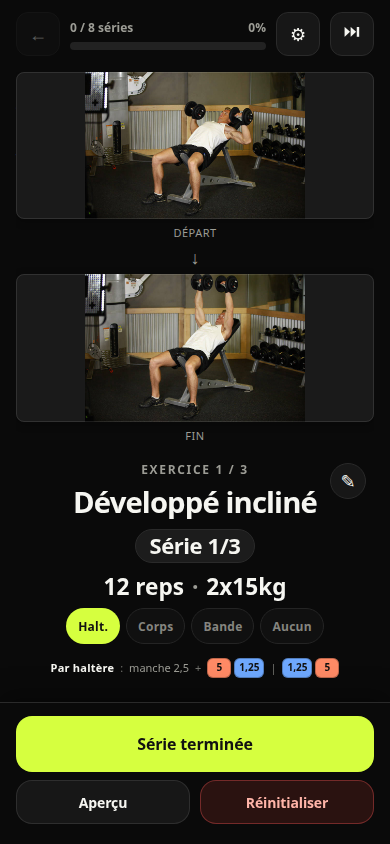
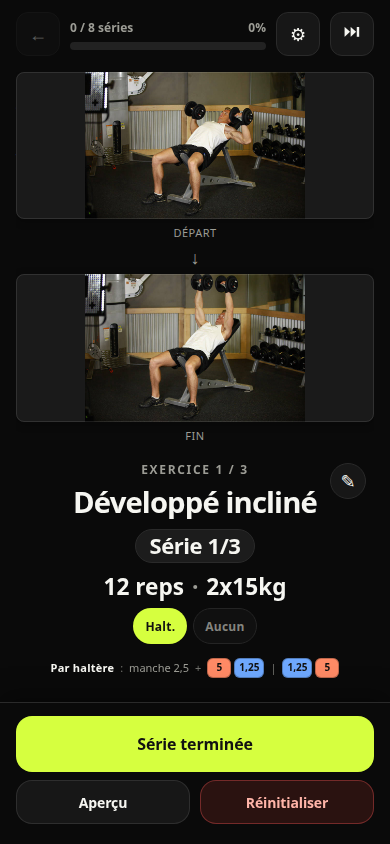
fix: session picker chips — kit types + Aucun only
Drop Corps/Bande from the in-session selector. Keep inventory-backed
types plus Aucun to hide loadout; legacy bande/bodyweight still hide
calc via coerce without showing those chips.

diff --git a/src/utils/availableEquipmentTypes.test.ts b/src/utils/availableEquipmentTypes.test.ts
@@ -10,16 +10,14 @@ import { suggestLoadout } from './loadout';
 import { loadEquipmentTypeOverrides } from './storage';
 
 describe('availableEquipmentTypeOptions', () => {
-  it('only offers haltères from default kit (+ hide options)', () => {
+  it('only offers haltères from default kit + Aucun (no Corps/Bande chips)', () => {
     const opts = availableEquipmentTypeOptions(createDefaultInventory());
     const values = opts.map((o) => o.value);
-    expect(values).toContain('haltères');
+    expect(values).toEqual(['haltères', 'autre']);
+    expect(values).not.toContain('poids_du_corps');
+    expect(values).not.toContain('bande');
     expect(values).not.toContain('barre_droite');
-    expect(values).not.toContain('barre_ez');
     expect(values).not.toContain('kettlebell');
-    expect(values).toEqual(
-      expect.arrayContaining(['poids_du_corps', 'bande', 'autre'])
-    );
   });
 
   it('includes kettlebell and bars when present in inventory', () => {
@@ -44,10 +42,7 @@ describe('availableEquipmentTypeOptions', () => {
       kettlebells: [{ id: 'k', weightKg: 16, quantity: 2 }],
     };
     const values = availableEquipmentTypeOptions(inv).map((o) => o.value);
-    expect(values).toEqual(
-      expect.arrayContaining(['barre_droite', 'barre_ez', 'kettlebell'])
-    );
-    expect(values).not.toContain('haltères');
+    expect(values).toEqual(['barre_droite', 'barre_ez', 'kettlebell', 'autre']);
   });
 });
 
@@ -62,8 +57,10 @@ describe('coerceEquipmentType', () => {
     expect(coerceEquipmentType(kit, 'barre_droite')).toBe('haltères');
   });
 
-  it('keeps hide options', () => {
-    expect(coerceEquipmentType(kit, 'bande')).toBe('bande');
+  it('maps bande / poids_du_corps to Aucun; empty defaults to haltères', () => {
+    expect(coerceEquipmentType(kit, 'bande')).toBe('autre');
+    expect(coerceEquipmentType(kit, 'poids_du_corps')).toBe('autre');
+    expect(coerceEquipmentType(kit, '')).toBe('haltères');
     expect(coerceEquipmentType(kit, 'autre')).toBe('autre');
   });
 });
@@ -90,24 +87,20 @@ describe('equipment type persistence + recalc', () => {
       },
     ];
 
-    const next = applyEquipmentTypeToExercises(exercises, 'Développé incliné', 'bande');
-    expect(next[0].equipmentType).toBe('bande');
+    const next = applyEquipmentTypeToExercises(exercises, 'Développé incliné', 'autre');
+    expect(next[0].equipmentType).toBe('autre');
     expect(next[1].equipmentType).toBe('haltères');
-    expect(loadEquipmentTypeOverrides()['développé incliné']).toBe('bande');
+    expect(loadEquipmentTypeOverrides()['développé incliné']).toBe('autre');
   });
 
-  it('recalculates loadout when type changes; hide types clear suggestion', () => {
+  it('recalculates loadout when type changes; Aucun clears suggestion', () => {
     const kit = createDefaultInventory();
     const exact = suggestLoadout(kit, 'haltères', '2x15kg');
     expect(exact?.exact).toBe(true);
 
-    const hidden = suggestLoadout(kit, 'bande', '2x15kg');
-    expect(hidden).toBeNull();
-
-    const none = suggestLoadout(kit, 'autre', '2x15kg');
-    expect(none).toBeNull();
-
-    const corps = suggestLoadout(kit, 'poids_du_corps', '2x15kg');
-    expect(corps).toBeNull();
+    expect(suggestLoadout(kit, 'autre', '2x15kg')).toBeNull();
+    // Legacy stored types still hide calc
+    expect(suggestLoadout(kit, 'bande', '2x15kg')).toBeNull();
+    expect(suggestLoadout(kit, 'poids_du_corps', '2x15kg')).toBeNull();
   });
 });

diff --git a/src/utils/availableEquipmentTypes.ts b/src/utils/availableEquipmentTypes.ts
@@ -9,15 +9,16 @@ export type EquipmentTypeOption = {
   calculates: boolean;
 };
 
-const HIDE_OPTIONS: EquipmentTypeOption[] = [
-  { value: 'poids_du_corps', label: 'Poids du corps', shortLabel: 'Corps', calculates: false },
-  { value: 'bande', label: 'Bande', shortLabel: 'Bande', calculates: false },
-  { value: 'autre', label: 'Aucun', shortLabel: 'Aucun', calculates: false },
-];
+const AUCUN: EquipmentTypeOption = {
+  value: 'autre',
+  label: 'Aucun',
+  shortLabel: 'Aucun',
+  calculates: false,
+};
 
 /**
  * Equipment types the user can pick during a session:
- * only bar/KB kinds present in inventory, plus hide options.
+ * only bar/KB kinds present in inventory, plus « Aucun » to hide the loadout.
  */
 export function availableEquipmentTypeOptions(
   inventory: EquipmentInventory
@@ -62,10 +63,14 @@ export function availableEquipmentTypeOptions(
     });
   }
 
-  return [...options, ...HIDE_OPTIONS];
+  return [...options, AUCUN];
 }
 
-/** Clamp a stored/deduced type to something the inventory can offer. */
+/**
+ * Map stored/deduced type onto a chip value.
+ * bande / poids_du_corps → Aucun (no calc, no dedicated chip).
+ * Empty / missing bar kinds → first calculating option in the kit.
+ */
 export function coerceEquipmentType(
   inventory: EquipmentInventory,
   preferred: ExerciseEquipmentType | undefined
@@ -73,7 +78,9 @@ export function coerceEquipmentType(
   const options = availableEquipmentTypeOptions(inventory);
   const values = new Set(options.map((o) => o.value));
   if (preferred && values.has(preferred)) return preferred;
-  // Prefer first calculating option (usually haltères)
+  if (preferred === 'bande' || preferred === 'poids_du_corps') {
+    return 'autre';
+  }
   const calc = options.find((o) => o.calculates);
   return calc?.value ?? 'autre';
 }

diff --git a/docs/screenshots/equipment-picker/README.md b/docs/screenshots/equipment-picker/README.md
@@ -4,7 +4,7 @@
 |------|----------|---------|
 | `*-exercise.png` | 390×844 / 1280×720 | Vue exercice + suggestions |
 | `*-picker.png` | after only | Sélecteur visible |
-| `*-changed.png` | after only | Type changé (ex. Corps) |
+| `*-changed.png` | after only | Type changé (Aucun → calcul masqué) |
 
 ```bash
 node scripts/capture-equipment-picker.mjs before|after
